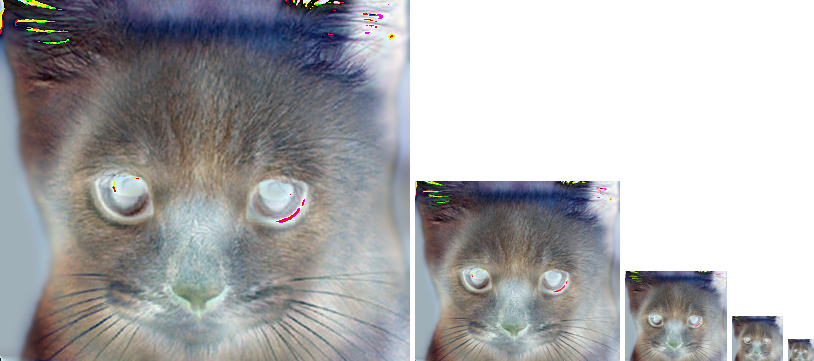
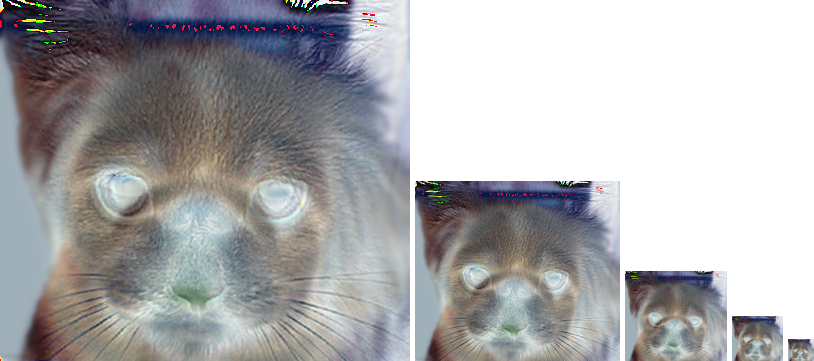
progress .. 100%

diff --git a/PS1/ps1.py b/PS1/ps1.py
@@ -133,34 +133,56 @@ def copy_paste_middle_circle(src, dst, radius):
         numpy.array: Output monochrome image (2D array)
     """
     
+    # works locally, doesnot work in gradescope
     
+    # src_copy = np.copy(src)
+    # center_y_src = int(src_copy.shape[0]/2)
+    # center_x_src = int(src_copy.shape[1]/2)
+    
+    # # draw filled circles in white on black background as masks
+    # mask = np.zeros_like(src)
+    # mask = cv2.circle(mask, (center_x_src,center_y_src), radius, 255, -1)
+    
+    # foreground = cv2.bitwise_and(src_copy, mask)
+    # #crop only the circle as square for now 
+    # foreground = foreground[center_y_src-radius:center_y_src+radius+1,center_x_src-radius:center_x_src+radius+1]
+    
+    # dst_copy =np.copy(dst)
+    
+    # mask2 = np.zeros_like(dst)
+    # center_y_dst = int(dst_copy.shape[0]/2)
+    # center_x_dst = int(dst_copy.shape[1]/2)
+    # mask2[center_y_dst-radius:center_y_dst+radius+1,center_x_dst-radius:center_x_dst+radius+1]= foreground
+    
+    # mask3 = np.full(dst.shape, 255,dtype=np.uint8)
+    # mask3 = cv2.circle(mask3, (center_x_dst,center_y_dst), radius, 0, -1)
+    
+    # dst_croped = cv2.bitwise_and(dst_copy,mask3)
+    
+    # result = cv2.bitwise_or(dst_croped, mask2)
+    # return result
     src_copy = np.copy(src)
-    center_y_src = int(src_copy.shape[0]/2)
-    center_x_src = int(src_copy.shape[1]/2)
+    center_y_src = int((src_copy.shape[0]-1)/2)
+    center_x_src = int((src_copy.shape[1]-1)/2)
     
     # draw filled circles in white on black background as masks
-    mask = np.zeros_like(src)
-    mask = cv2.circle(mask, (center_x_src,center_y_src), radius, (255,255,255), -1)
+    mask = np.zeros_like(src,dtype=np.uint8)
+    mask = cv2.circle(mask, (center_x_src,center_y_src), radius, 255, -1)
+    mask = mask.astype(np.bool)
     
-    foreground = cv2.bitwise_and(src_copy, mask)
-    #crop only the circle as square for now 
-    foreground = foreground[center_y_src-radius:center_y_src+radius+1,center_x_src-radius:center_x_src+radius+1]
     
     dst_copy =np.copy(dst)
+    center_y_dst = int((dst.shape[0]-1)/2)
+    center_x_dst = int((dst.shape[1]-1)/2)
     
-    mask2 = np.zeros_like(dst)
-    center_y_dst = int(dst_copy.shape[0]/2)
-    center_x_dst = int(dst_copy.shape[1]/2)
-    mask2[center_y_dst-radius:center_y_dst+radius+1,center_x_dst-radius:center_x_dst+radius+1]= foreground
+    mask2 = np.zeros_like(dst,dtype=np.uint8)
+    mask2 = cv2.circle(mask2, (center_x_dst,center_y_dst), radius, 255, -1)
+    mask2 = mask2.astype(np.bool)
+
+    dst_copy[mask2] = src_copy[mask]
     
-    mask3 = np.full(dst.shape, 255,dtype=np.uint8)
-    mask3 = cv2.circle(mask3, (center_x_dst,center_y_dst), radius, (0,0,0), -1)
     
-    dst_croped = cv2.bitwise_and(dst_copy,mask3)
-    
-    result = cv2.bitwise_or(dst_croped, mask2)
-    
-    return result
+    return dst_copy
 
 
 def image_stats(image):
@@ -316,9 +338,9 @@ def add_noise(image, channel, sigma):
             specified channel.
     """
     temp_image = np.copy(image)
-    temp_image = temp_image.astype(np.float32)
+    temp_image = temp_image.astype(np.float64)
     
-    temp_image[:,:,channel] = image[:,:,channel] + np.random.normal(0,sigma)
+    temp_image[:,:,channel] += np.random.normal(0,sigma,(temp_image.shape[:2]))
     return temp_image
 
 

diff --git a/PS1/Disscussion.py b/PS1/Disscussion.py
@@ -1,0 +1,28 @@
+# -*- coding: utf-8 -*-
+"""
+Created on Thu Jan 20 15:16:20 2022
+
+@author: Labuser
+"""
+
+import cv2 
+
+
+img = cv2.imread("southafricaflagface.png")
+
+red_channel = img[:,:,2]
+green_channel = img[:,:,1]
+blue_channel = img[:,:,0]
+
+cv2.imshow('red_channel', red_channel)
+cv2.waitKey(0)
+
+cv2.imshow('green_channel', green_channel)
+cv2.waitKey(0)
+cv2.imshow('blue_channel', blue_channel)
+cv2.waitKey(0)
+
+img_gray = cv2.cvtColor(img, cv2.COLOR_BGR2GRAY)
+cv2.imshow('gray', img_gray)
+cv2.waitKey(0)
+cv2.destroyAllWindows()

diff --git a/PS1/experiment.py b/PS1/experiment.py
@@ -84,7 +84,7 @@ def main():
     # # 5 Noise
 
     # TODO: Choose a sigma value:
-    sigma = 30
+    sigma = 50
 
     # # 5a
     channel = 1
@@ -100,7 +100,7 @@ def main():
     img1 = cv2.imread('dog.bmp')
     img2 = cv2.imread('cat.bmp')
 
-    cutoff_frequency = 7
+    cutoff_frequency = 3
 
     hybrid_image = build_hybrid_image(img1, img2, cutoff_frequency)
     
